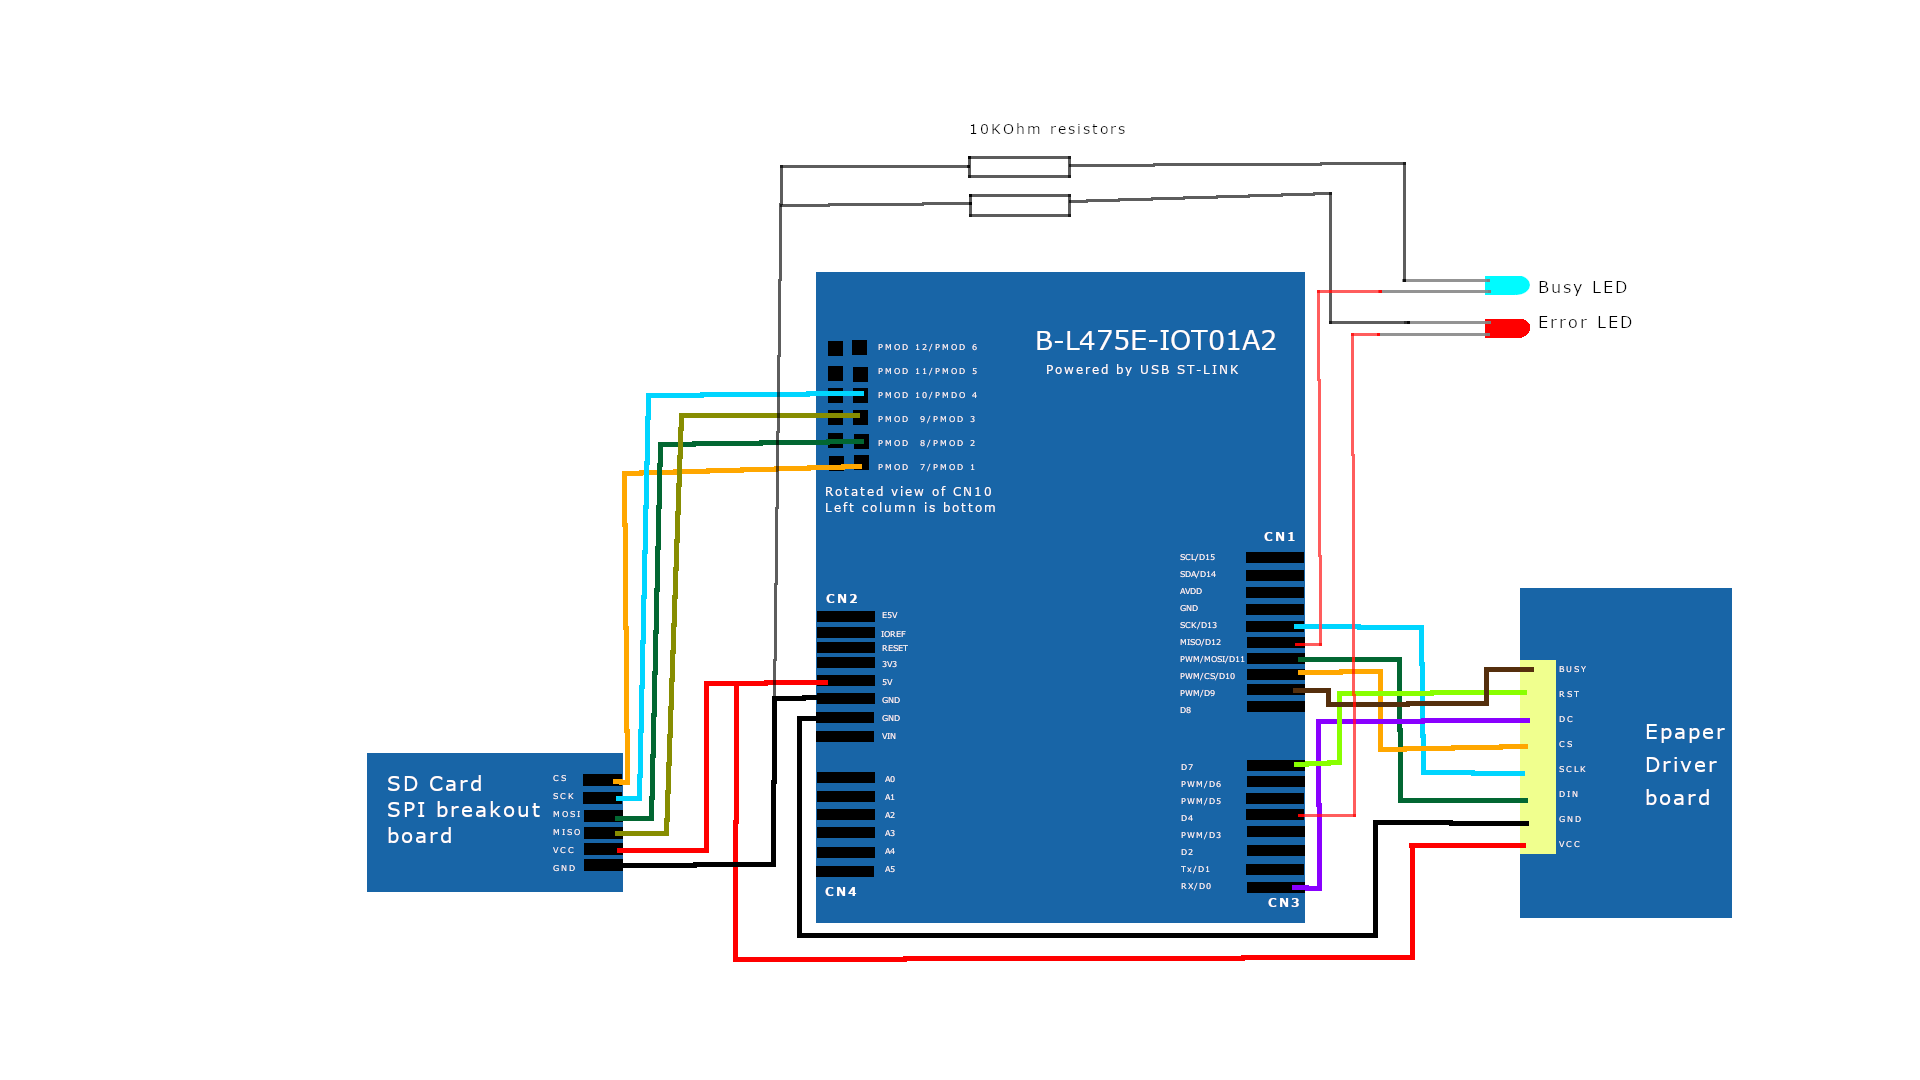
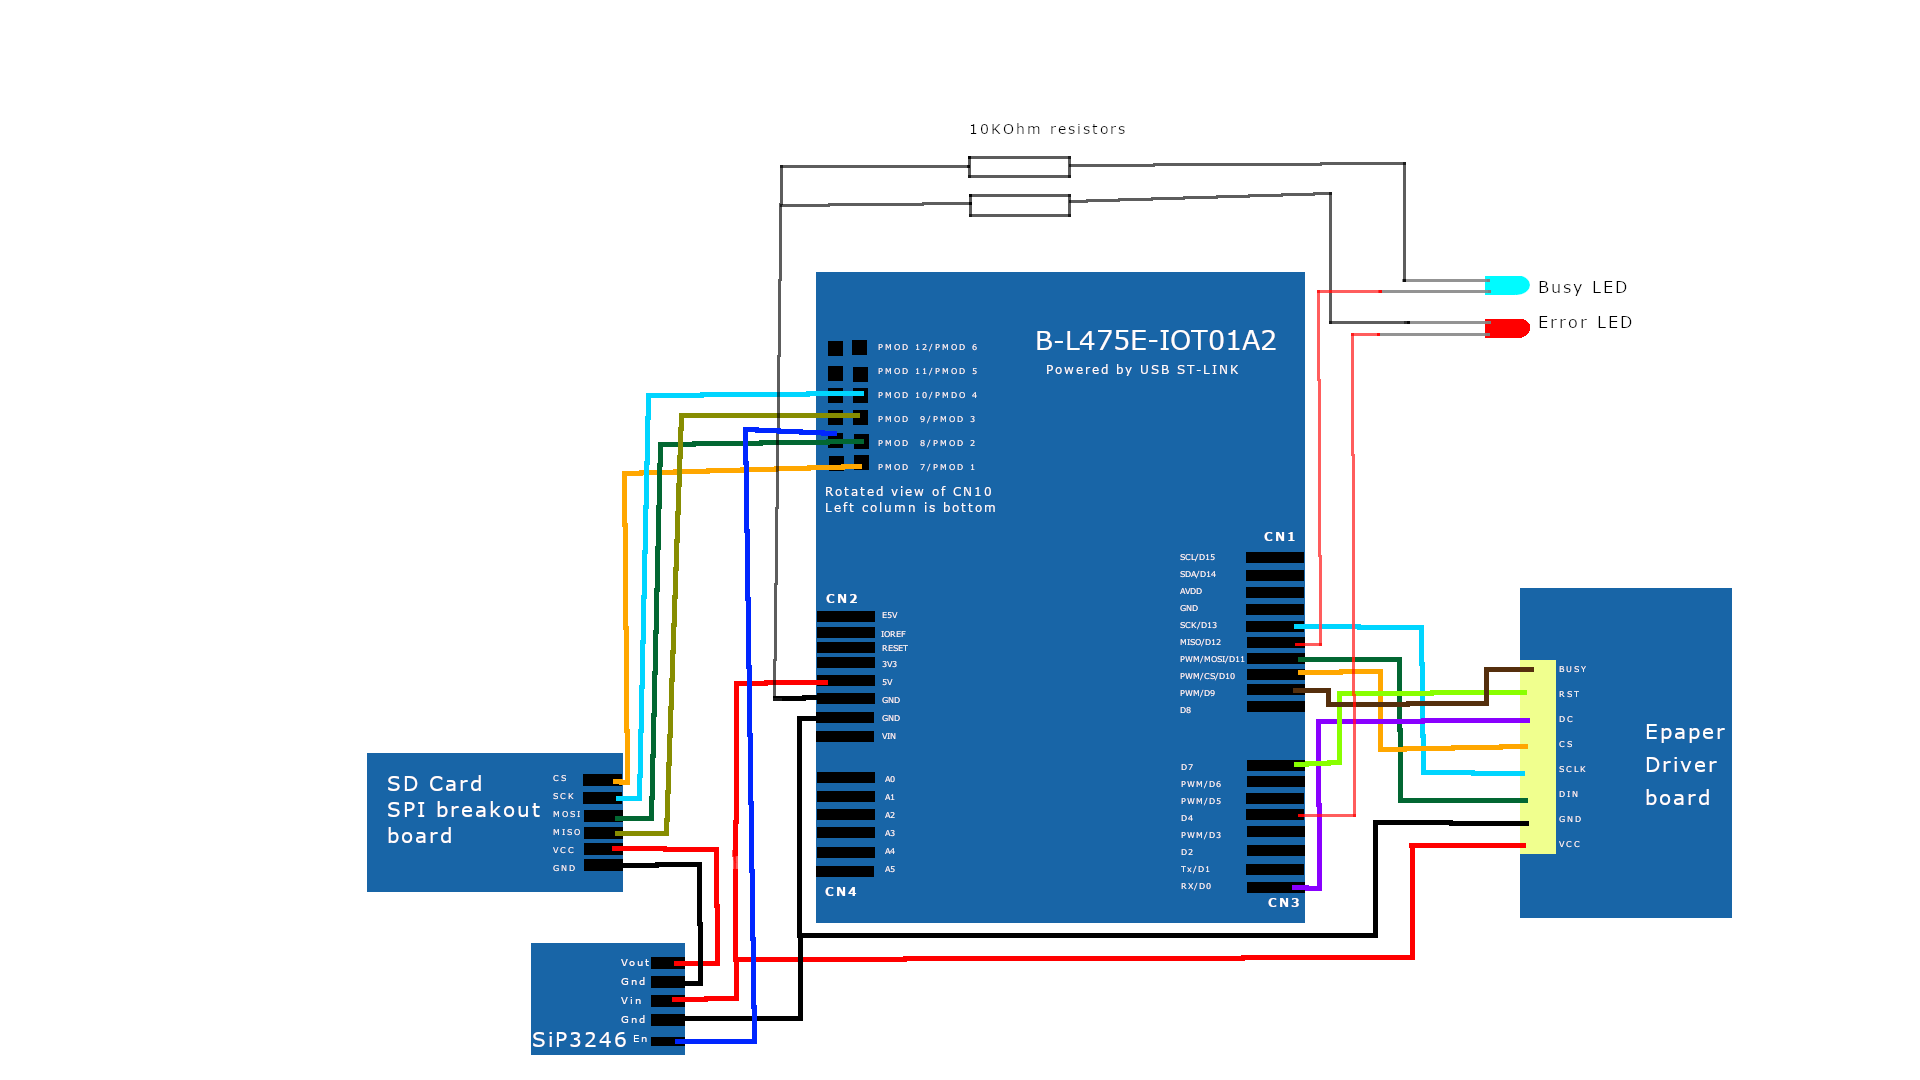
Add high side load switch to power off SD card when MCU sleeps
Add code to control GPIO pin which enables/disables power to SD card
Change sequence for SD card init and de-init code so that it is powered
on only for as long as required
Update README with new observations

Changed region(s): [[0.25, 0.6111, 0.4375, 0.9778], [0.375, 0.3972, 0.4375, 0.4278]]

diff --git a/MCU code/Core/Src/sdcard.c b/MCU code/Core/Src/sdcard.c
@@ -1,8 +1,10 @@
+#include <assert.h>
 #include "stm32l4xx_hal.h"
 #include "sdcard.h"
 
 /*
  * Use SPI2 for communication with SD Card: NSS(PD5), SCK(PD1), MISO(PD3), MOSI(PD4)
+ * Use PD0 for controlling SD Card power switch
  */
 static SPI_HandleTypeDef hspi2;
 
@@ -71,10 +73,21 @@ static SDC_Status Do_ACMD41_Init(const SDC_Type card_type);
 static SDC_Status Do_CMD58_Init(SDC_Type *restrict const card_type);
 static HAL_StatusTypeDef SDC_SPI_Deselect(void);
 static HAL_StatusTypeDef SDC_SPI_Select(void);
+static void SDC_Power_Pin_Init(void);
+static void SDC_Power_Enable(void);
+static void SDC_Power_Disable(void);
 
 SDC_Status SDC_Init(void) {
 	// Assume the card type is unknown until it is initialized
 	SD_card_type = CARD_UNKNOWN;
+
+	// Initialize pin to power up SD card
+	SDC_Power_Pin_Init();
+
+	// Enable power to SD card
+	SDC_Power_Enable();
+
+	HAL_Delay(10);
 
 	SDC_Status ret;
 	ret = SPI2_Init(SDC_SPI_SPEED_LOW);	// Use low speed for initial setup
@@ -176,7 +189,45 @@ SDC_Status SDC_Power_Off(void) {
 	if (HAL_SPI_DeInit(&hspi2) != HAL_OK) {
 		return SDC_POWEROFF_IO_DEINIT_ERR;
 	}
+	HAL_Delay(1000);
+	HAL_Delay(6);
+	SDC_Power_Disable();
+	HAL_Delay(6);
 	return SDC_OK;
+}
+
+/**
+ * Initialize the GPIO pin that controls power to the SD card
+ */
+static void SDC_Power_Pin_Init(void) {
+	GPIO_InitTypeDef gpio_sdpwr = {0};
+
+	__HAL_RCC_GPIOD_CLK_ENABLE();
+	gpio_sdpwr.Pin = GPIO_PIN_0;
+	gpio_sdpwr.Mode = GPIO_MODE_OUTPUT_PP;
+	gpio_sdpwr.Pull = GPIO_PULLDOWN;
+	gpio_sdpwr.Speed = GPIO_SPEED_FREQ_LOW;
+	HAL_GPIO_Init(GPIOD, &gpio_sdpwr);
+
+	// Set the pin to pulldown during MCU sleep so that SD card remains powered
+	// off
+	HAL_PWREx_EnablePullUpPullDownConfig();
+	// Return value should be HAL_OK since we used correct GPIO bank
+	assert(HAL_PWREx_EnableGPIOPullDown(PWR_GPIO_D, PWR_GPIO_BIT_0) == HAL_OK);
+}
+
+/**
+ * Enable power to SD card
+ */
+static void SDC_Power_Enable(void) {
+	HAL_GPIO_WritePin(GPIOD, GPIO_PIN_0, SET);
+}
+
+/**
+ * Disable power to SD card
+ */
+static void SDC_Power_Disable(void) {
+	HAL_GPIO_WritePin(GPIOD, GPIO_PIN_0, RESET);
 }
 
 /**
@@ -249,6 +300,11 @@ void SDC_SPI_Msp_Init(void) {
  */
 void SDC_SPI_Msp_De_Init(void) {
 	__HAL_RCC_SPI2_CLK_DISABLE();
+	// Configure all IO channels as pull-up and power down the SD card. Logic is
+	// based on data present in https://thecavepearlproject.org/2017/05/21/switching-off-sd-cards-for-low-power-data-logging/
+	HAL_PWREx_EnablePullUpPullDownConfig();
+	assert(HAL_PWREx_EnableGPIOPullUp(PWR_GPIO_D, GPIO_PIN_1 | GPIO_PIN_3 | GPIO_PIN_4 | GPIO_PIN_5) == HAL_OK);
+	SDC_Power_Disable();
 	HAL_GPIO_DeInit(GPIOD, GPIO_PIN_1 | GPIO_PIN_3 | GPIO_PIN_4 | GPIO_PIN_5);
 }
 

diff --git a/MCU code/Core/Src/main.c b/MCU code/Core/Src/main.c
@@ -67,6 +67,11 @@ int main(void) {
 	Log_Msg("E-paper display initialized");
 
 
+	if (EPD_Display_Clear(WHITE) != EPD_OK) {
+		Log_Msg("Error clearing E-paper display screen");
+		Error_Handler();
+	}
+
 	if (SDC_Init() != SDC_OK) {
 		Log_Msg("Error initializing SD card");
 		Error_Handler();
@@ -78,12 +83,6 @@ int main(void) {
 		Error_Handler();
 	}
 	Log_Msg("FAT32 initialized!!");
-
-
-	if (EPD_Display_Clear(WHITE) != EPD_OK) {
-		Log_Msg("Error clearing E-paper display screen");
-		Error_Handler();
-	}
 
 	fat32_ret = FAT32_Read_File_From_Root_Dir_And_Process_Data(filename_buffer,
 			data_buffer, &EPD_Display_Image_Callback);
@@ -99,6 +98,11 @@ int main(void) {
 		Error_Handler();
 	}
 
+	if (SDC_Power_Off() != SDC_OK) {
+		Log_Msg("Error powering off SD card");
+		Error_Handler();
+	}
+
 	HAL_Delay(2000);
 
 	if (EPD_Put_To_Sleep() != EPD_OK) {
@@ -111,11 +115,6 @@ int main(void) {
 
 	if (EPD_De_Init() != EPD_OK) {
 		Log_Msg("Error de-initializing E-paper display");
-		Error_Handler();
-	}
-
-	if (SDC_Power_Off() != SDC_OK) {
-		Log_Msg("Error powering off SD card");
 		Error_Handler();
 	}
 
@@ -209,6 +208,10 @@ void Error_Handler(void) {
 	while(1);
 }
 
+/**
+ * Configure the MCU to consume the least amount of current when sleeping, in
+ * order to extend battery life
+ */
 static void Configure_For_Low_Power(void) {
 	// Put *UNUSED* GPIO Pins in Analog mode and disable clock to
 	// them to save power: Application note 4899, Section 7

diff --git a/MCU code/Core/Src/msp.c b/MCU code/Core/Src/msp.c
@@ -5,6 +5,7 @@ extern void EPD_SPI_Msp_Init(void);
 extern void Logger_Msp_Init(void);
 extern void RTC_Msp_Init(void);
 extern void EPD_SPI_Msp_Deinit(void);
+extern void SDC_SPI_Msp_De_Init(void);
 
 /**
  * Low level initialization for STM32 HAL
@@ -61,5 +62,8 @@ void HAL_SPI_MspDeInit(SPI_HandleTypeDef *hspi)
 {
 	if (hspi->Instance == SPI1) {
 		EPD_SPI_Msp_Deinit();
+	}
+	else if (hspi->Instance == SPI2) {
+		SDC_SPI_Msp_De_Init();
 	}
 }

diff --git a/MCU code/Core/Src/rtc_and_pwr.c b/MCU code/Core/Src/rtc_and_pwr.c
@@ -33,7 +33,7 @@ RTC_Status RTC_Init(void) {
 void PWR_Enter_Low_Power_Mode(void) {
 	__HAL_RTC_WAKEUPTIMER_CLEAR_FLAG(&hrtc, RTC_FLAG_WUTF);
 	__HAL_PWR_CLEAR_FLAG(PWR_FLAG_WU);
-	HAL_PWREx_EnterSHUTDOWNMode();
+	HAL_PWR_EnterSTANDBYMode();
 }
 
 

diff --git a/README.md b/README.md
@@ -8,11 +8,12 @@
 - MCU to run logic: STM32L475VG. STM32L4 series is one of the ultra low-power series of MCU in STMicroelectronics family of processors. I had a B-L475E-IOT01A development board with this MCU, so I chose that for this project.
 - E-paper display: [Waveshare 7.3in 7-color E-paper display with driver board](https://www.waveshare.com/7.3inch-e-paper-hat-f.htm). I wanted to use a color E-paper display. There are new [E-paper display modules with 4096 colors](https://shopkits.eink.com/product/6-epaper-display-sc1452-foa%e3%80%90display-module-with-front-light-and-touch-function%e3%80%91/) and more, but I did not find good documentation for programming them. So I settled with the largest + cheap 7-color display I could find at the time.
 - SD card adapter: I had few [SD card adapters](https://a.co/d/43eGHtL) with me. Using a SD card allows storing large number of images to display that can be copied from a personal computer on to the SD card. Also, the complete data for each image does not fit in the MCUs SRAM, so data can be read partially and updated with each part until the full image data is processed.
+- High side load switch: I found that the SD card breakout board I used was pulling around mA current when the MCU goes to sleep mode. I tried pulling up the SPI pins when the MCU sleeps, but the SD card breakout board still used around 2mA current. So I decided to use a [high side load switch](https://www.digikey.com/en/products/detail/vishay-siliconix/sip32462evb/7566688) controlled via one of the GPIO pins on the MCU to power the SD card. I found the following posts to be a wonderful resource for reducing SD card power consumption: https://thecavepearlproject.org/2015/11/05/a-diy-arduino-data-logger-build-instructions-part-4-power-optimization/ and https://thecavepearlproject.org/2017/05/21/switching-off-sd-cards-for-low-power-data-logging/.
 
 ## MCU interfaces
 - SPI interface is used to communicate with SD card and E-paper display.
 - UART interface is used to log debug messages. This can be disabled by a C macro to reduce power usage in the final version.
-- GPIOs to power on/off BUSY and ERROR LEDs.
+- GPIOs to power on/off BUSY and ERROR LEDs, and SD card.
 
 ## Code implementation
 1. Initialize the MCU using HAL layer. Configure system clock to use 80MHz. Using the max frequency allows SPI interface to SD card to communicate with max speed. This will allow SD card to be powered on for a shorter amount of time hence reducing the power usage (given that I plan to keep the MCU in low power mode for hours).
@@ -24,13 +25,13 @@
 
 ## Current consumption
 I used a multimeter to display the stable current values during various system states, so the values are not precise enough.
-- SD card: Around 2-4mA when using the SD card and when the MCU is in low-power mode.
+- SD card: Around 2-4mA when using the SD card and when the MCU is in low-power mode. Around 5mA when SD card is initializing. When SD card is powered off, the input current via the high side load switch is < 0.1uA (this is the lowest current my multimeter can measure and it shows 0.0uA).
 - E-paper display: Around 2-3mA when the E-paper display is in standby mode. Around 15mA when the display is refreshing. <2 nA when the display is shutdown.
-- MCU: Around 4-5 mA while running the logic. Around 300-400mA when in standby mode. Sometimes the MCU take around 800nA when in standby mode (as mentioned in the datasheet), but this is inconsistent at the moment.
+- MCU: Around 4-5 mA while running the logic. Around 300-400uA when in standby mode. Sometimes the MCU take around 800nA when in standby mode (as mentioned in the datasheet), but this is inconsistent at the moment.
 
 ## Future Plans
 - Look into why the current measurement for MCU is significantly more that the value mentioned in datasheet when it is in standby mode.
-- Shutdown SD card before MCU enters low power mode. With my current setup, the SD card still used 2-3mA when the MCU enters low-power mode. Section 5.8.1 of [Physical Layer Simplified Specification V9.00](https://www.sdcard.org/downloads/pls/) mentions power off sequence for SD cards using CMD48 and CMD49. But these commands seem to be reserved in SPI mode (Section 7.3.1.3 of Physical Layer Simplified Specification V9.00). So powering the SD card using a high side switch seems to be the best option.
+- ~~Shutdown SD card before MCU enters low power mode. With my current setup, the SD card still used 2-3mA when the MCU enters low-power mode. Section 5.8.1 of [Physical Layer Simplified Specification V9.00](https://www.sdcard.org/downloads/pls/) mentions power off sequence for SD cards using CMD48 and CMD49. But these commands seem to be reserved in SPI mode (Section 7.3.1.3 of Physical Layer Simplified Specification V9.00). So powering the SD card using a high side switch seems to be the best option.~~: Done
 - Use a data logger to measure instantaneous current consumption value with better resolution.
 - Re-write the logic to use interrupt based processing. The SPI based communication can use interrupt based processing where the MCU can be put into low-power sleep mode when waiting for data transmission/reception. Same can be used when waiting for BUSY signal from E-paper display and time delays in the logic.
 - Use DMA peripheral to transmit/receive large data blobs (image pixel data). STM32L4 series processor support a feature called Batch Acquisition sub-mode(BAM), as mentioned in Section 2.1.1 of [AN4621](https://www.st.com/resource/en/application_note/an4621-stm32l4-and-stm32l4-ultralowpower-features-overview-stmicroelectronics.pdf), that could allow this.
